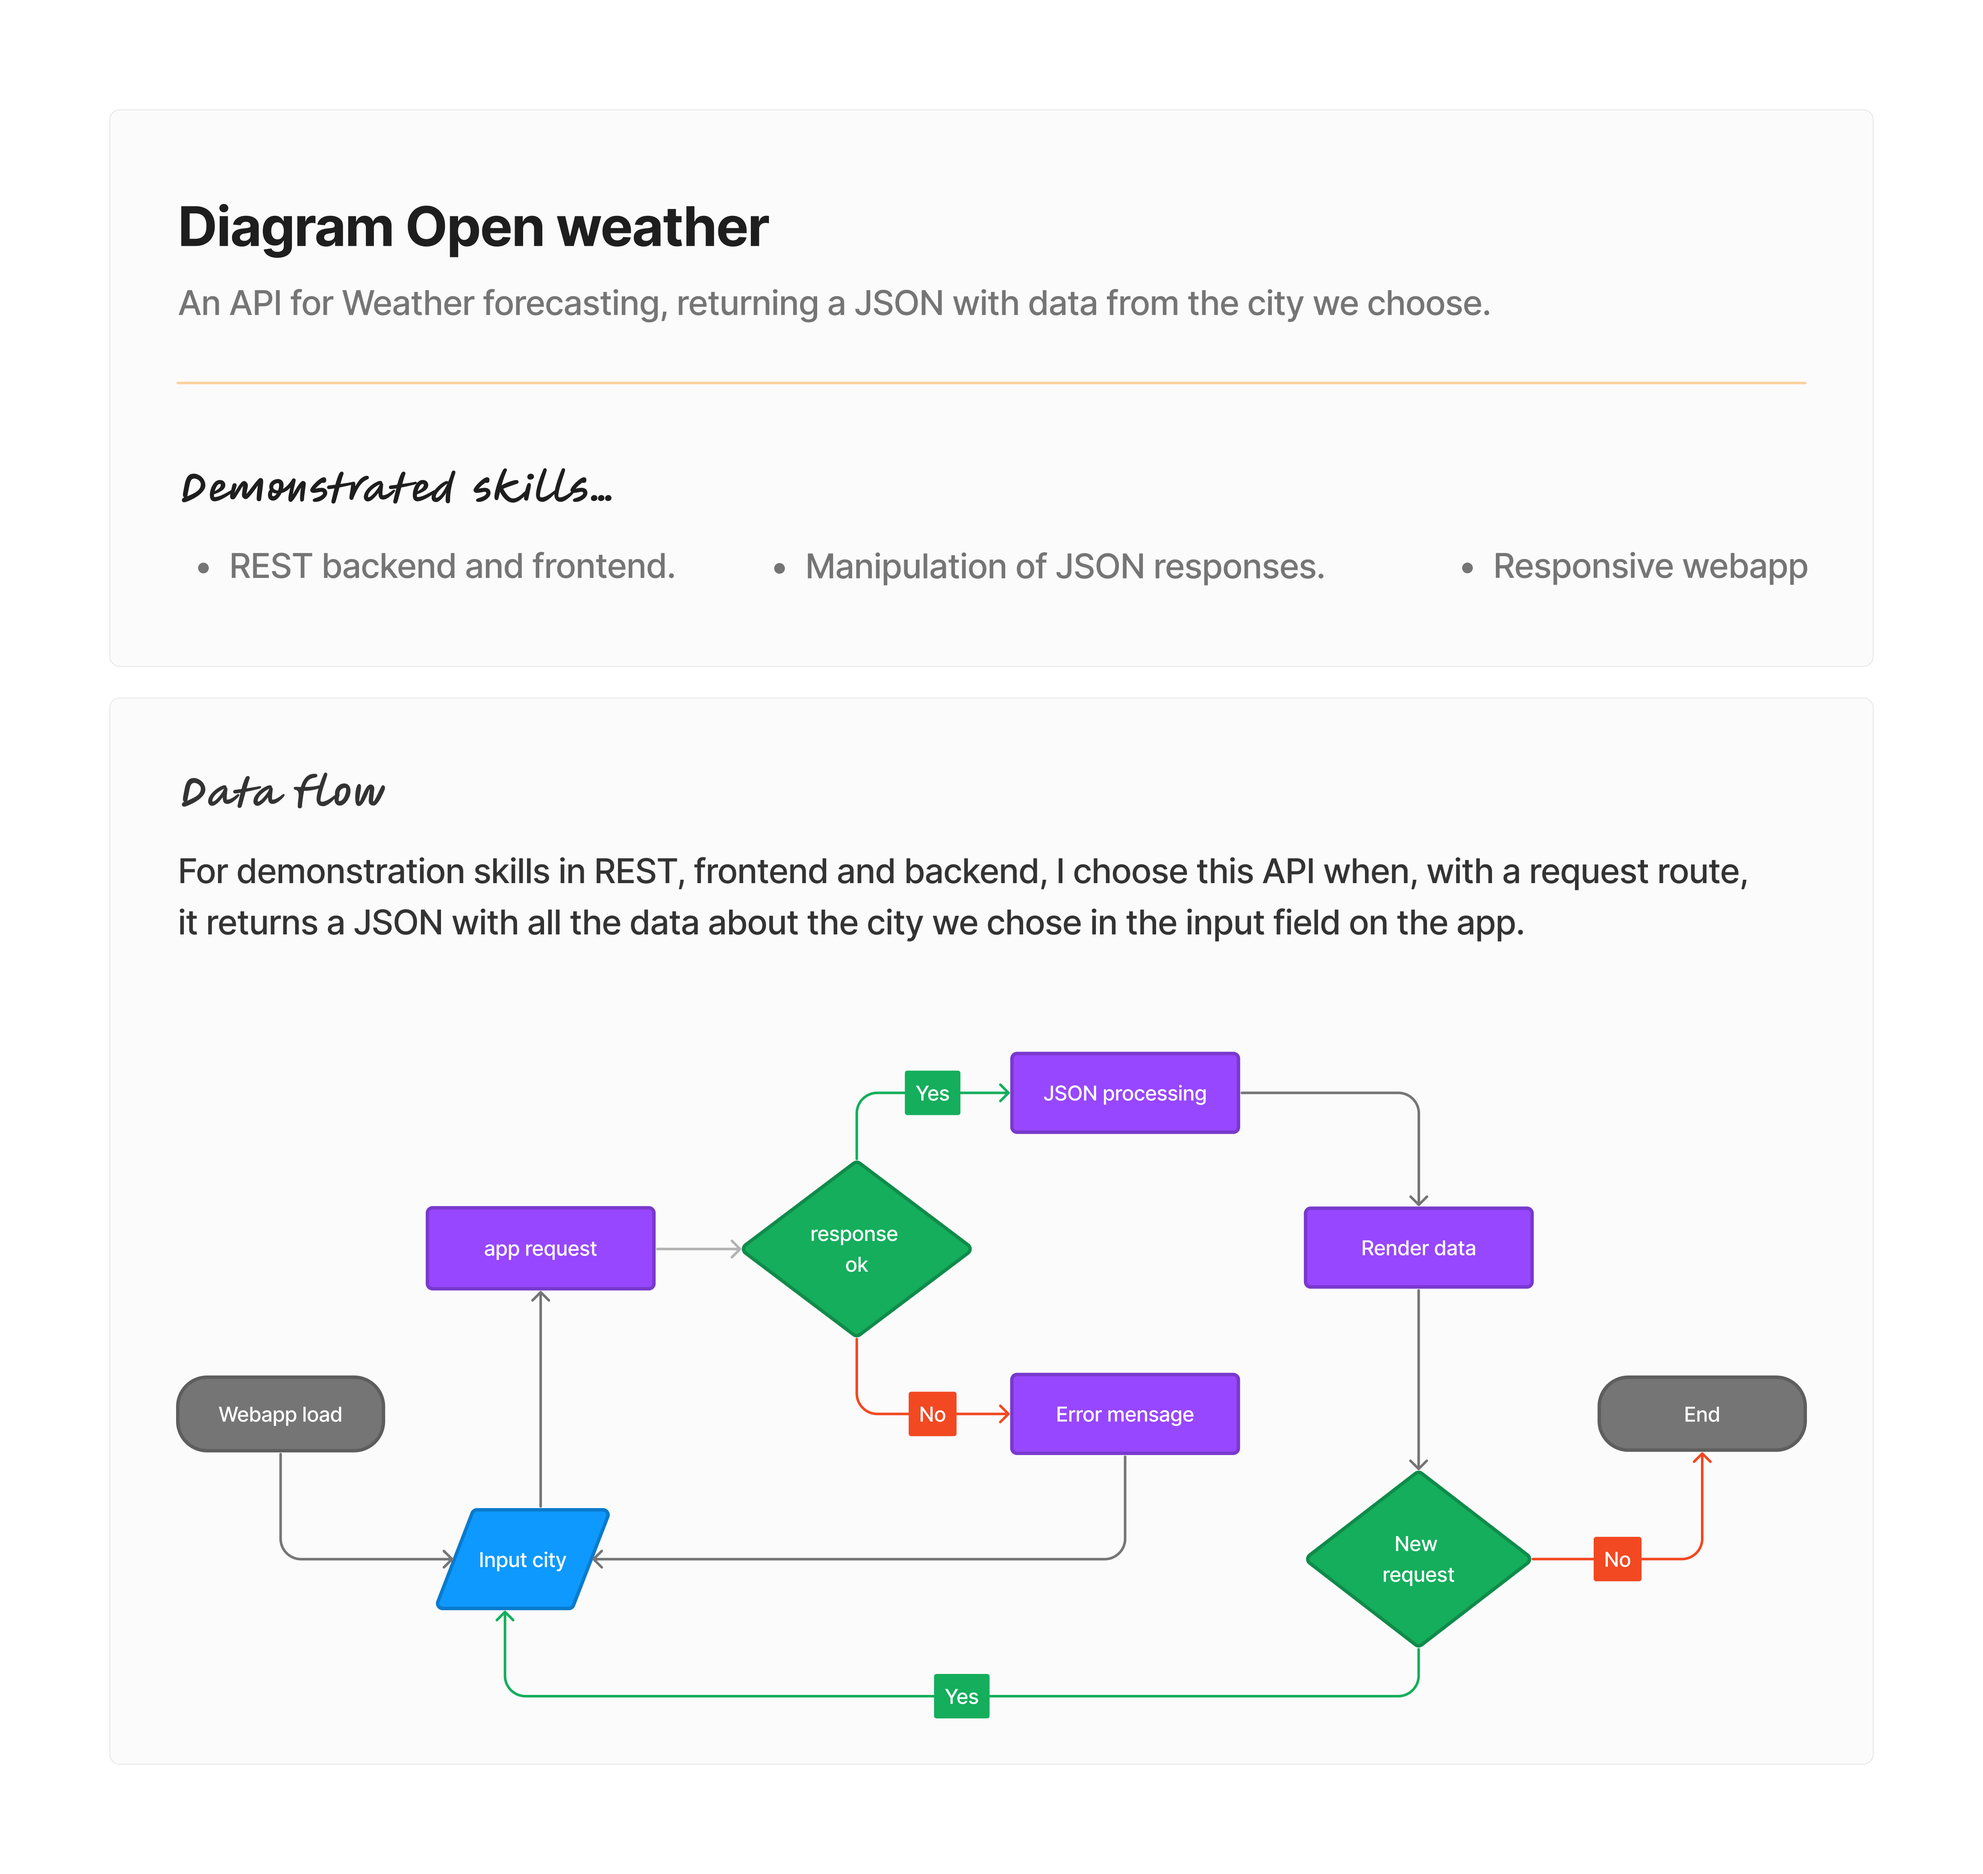
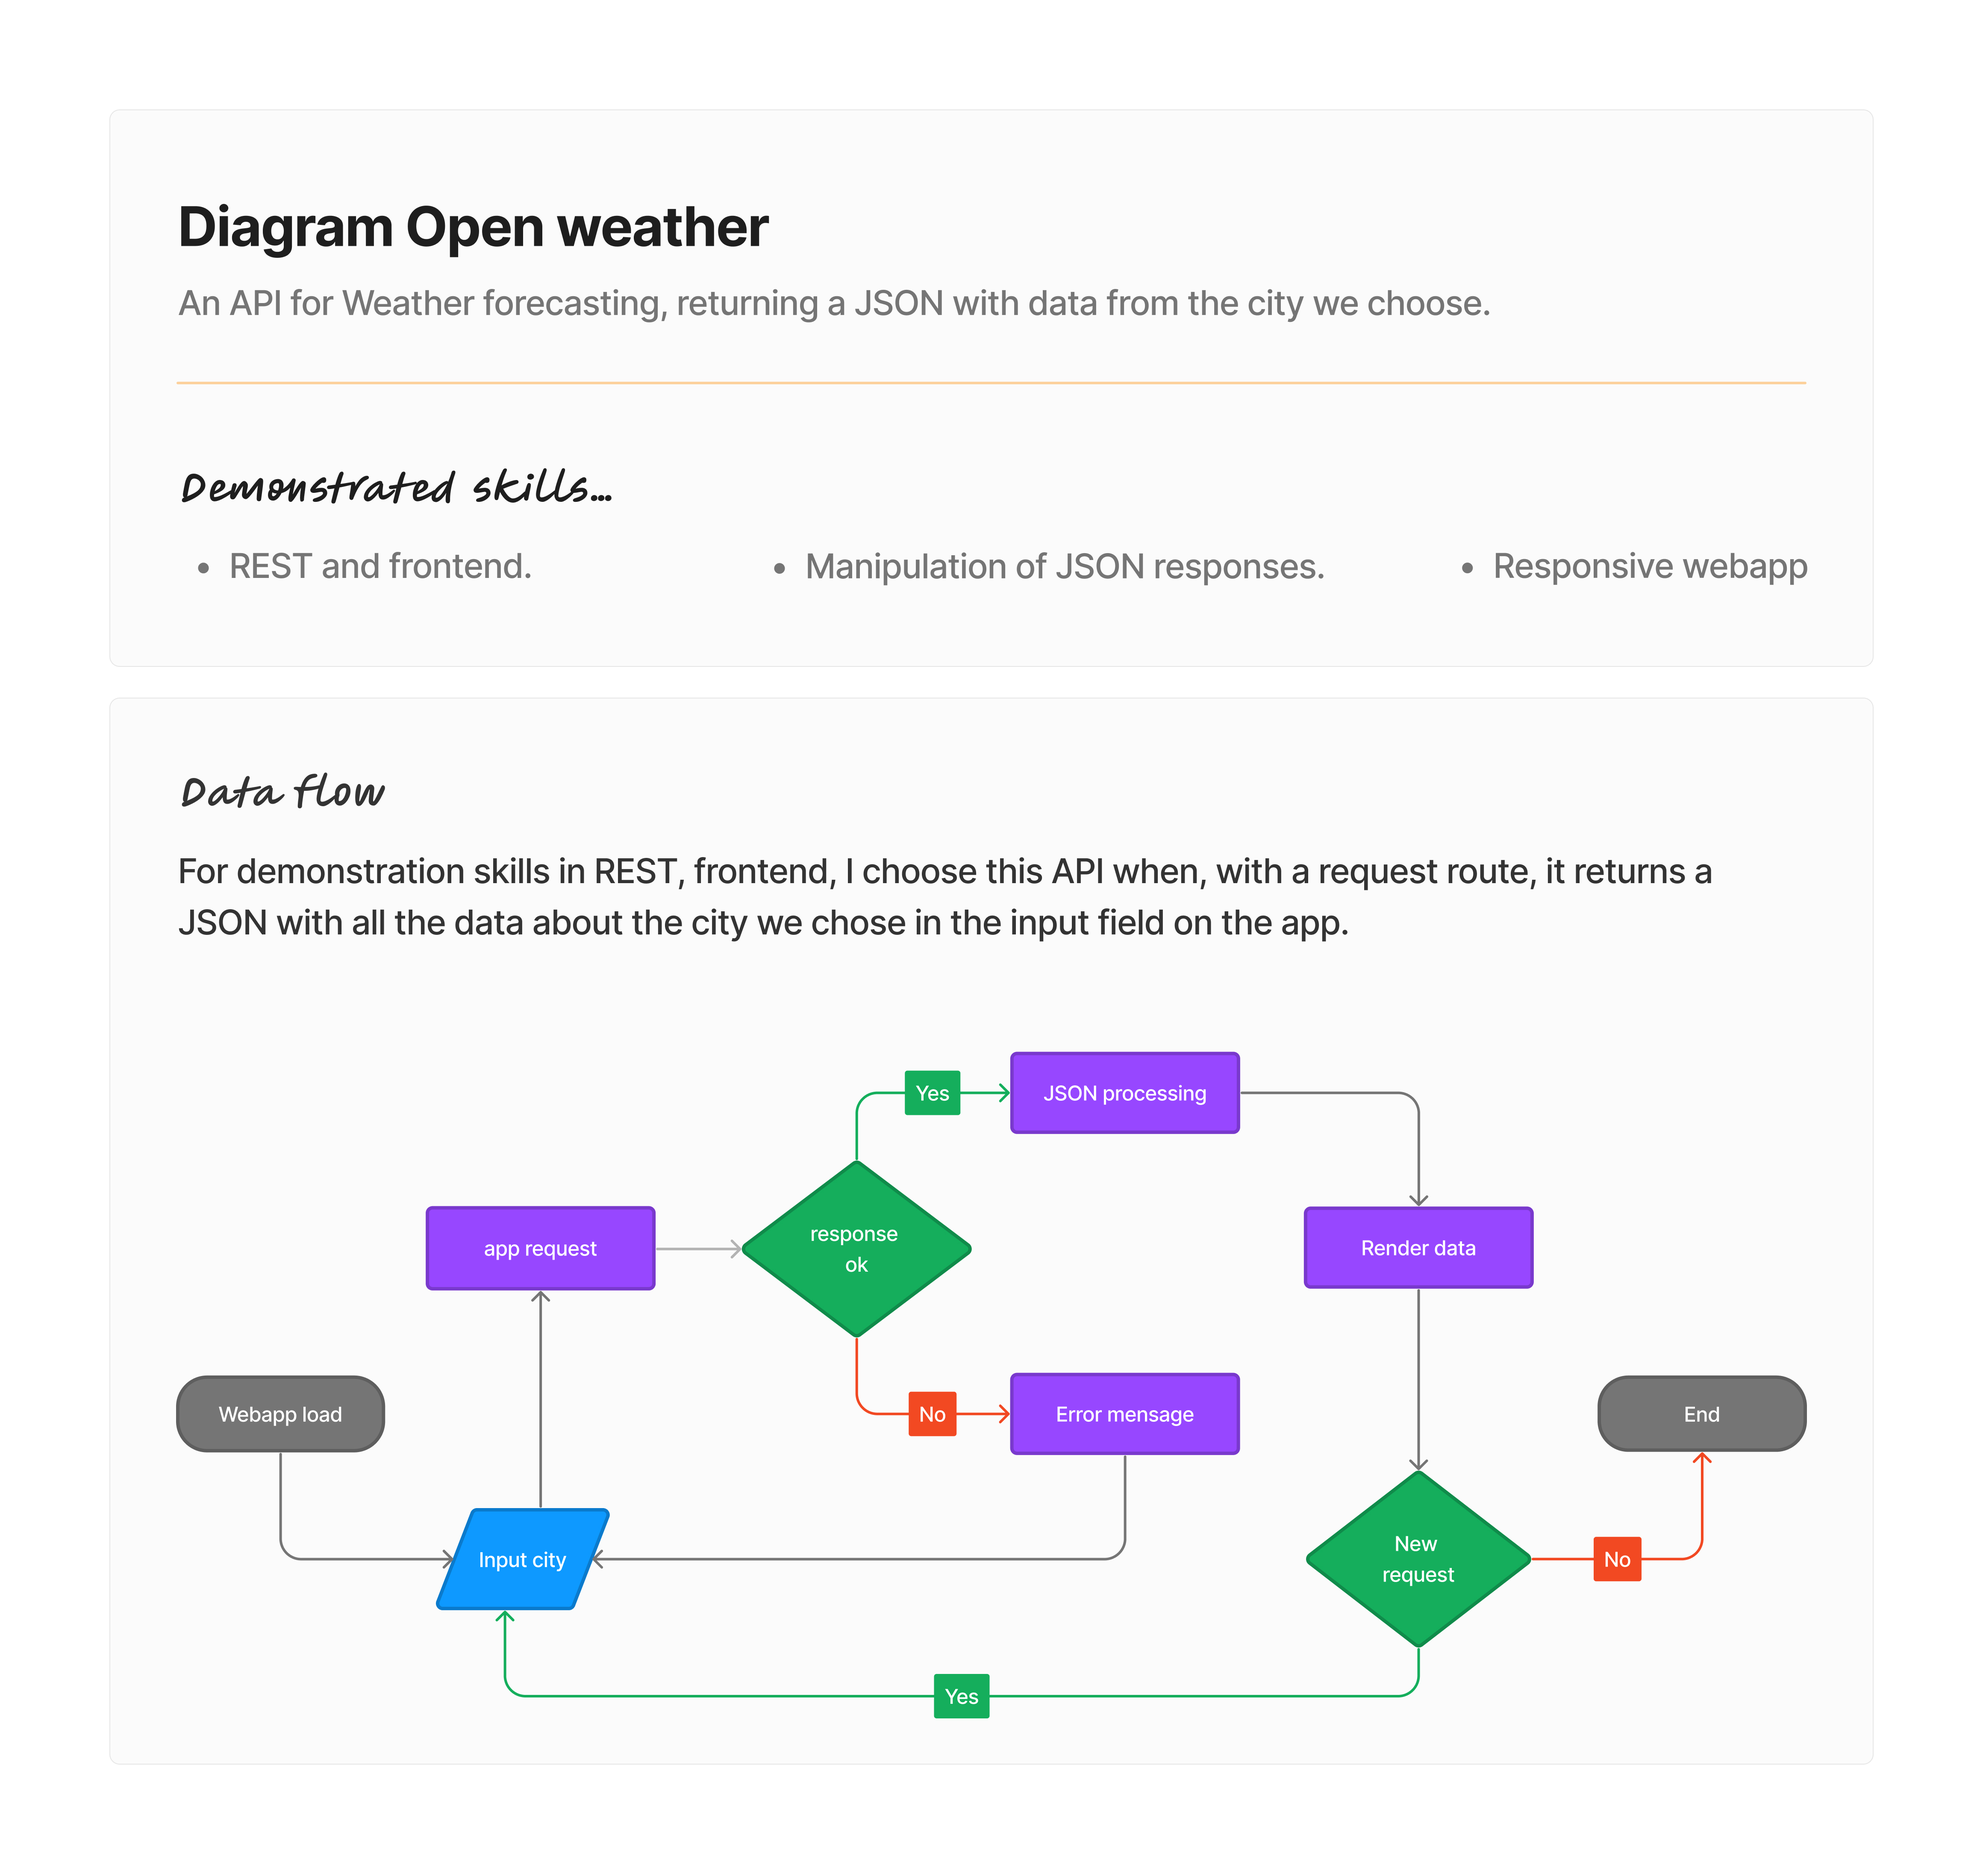
edit: README

Changed region(s): [[0.0938, 0.4375, 0.875, 0.5], [0.1562, 0.2812, 0.3438, 0.3125]]

diff --git a/README.md b/README.md
@@ -1,5 +1,5 @@
 # Open-weather
-For demonstration skills in REST, frontend and backend, I choose this API when, with a request route, it returns a JSON with all the data about the city we chose in the input field on the app.
+For demonstration skills in REST, frontend, I choose this API when, with a request route, it returns a JSON with all the data about the city we chose in the input field on the app.
 
 # Diagram
 <img src="Diagram Open weather.jpg" alt="Diagram Open weather"/>
